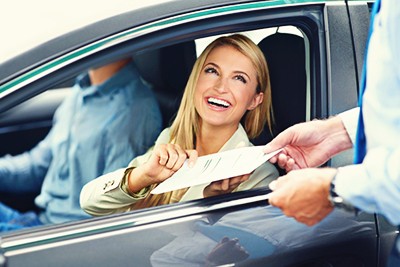
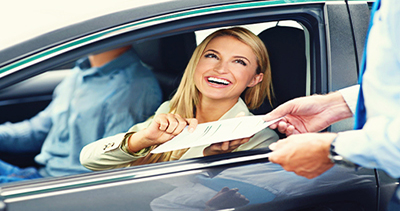
updates 08/28/14

diff --git a/css/carousel.css b/css/carousel.css
@@ -34,6 +34,17 @@
   width: auto;
 }
 
+.inner-shadow {
+   -moz-box-shadow:    inset 0 0 10px #000000;
+   -webkit-box-shadow: inset 0 0 10px #000000;
+   box-shadow:         inset 0 0 10px #000000;
+}
+.outer-shadow {
+	border: 1px solid #ccc;
+  -moz-box-shadow:    1px 1px 1px 1px #eee;
+  -webkit-box-shadow: 1px 1px 1px 1px #eee;
+  box-shadow:         1px 1px 1px 1px #eee;
+}
 
 /* CUSTOMIZE THE CAROUSEL
 -------------------------------------------------- */
@@ -84,7 +95,7 @@
 ------------------------- */
 
 .featurette-divider {
-  margin: 80px 0; /* Space out the Bootstrap <hr> more */
+  margin: 50px 0; /* Space out the Bootstrap <hr> more */
 }
 
 /* Thin out the marketing headings */

diff --git a/css/style.css b/css/style.css
@@ -1,6 +1,9 @@
 .gold{color: #FFB01F;}
 .blue{color: #428bca;}
 
+
+
+
 /*
 ================================================================================
 |                                     TAGS                                     |

diff --git a/application/views/pages/home.php b/application/views/pages/home.php
@@ -85,7 +85,7 @@
           <p class="lead">Donec ullamcorper nulla non metus auctor fringilla. Vestibulum id ligula porta felis euismod semper. Praesent commodo cursus magna, vel scelerisque nisl consectetur. Fusce dapibus, tellus ac cursus commodo.</p>
         </div>
         <div class="col-md-5">
-          <img class="featurette-image img-responsive" src="<?=base_url();?>images/slide-show/10.jpg" alt="Generic placeholder image">
+          	<img class="featurette-image img-responsive outer-shadow" src="<?=base_url();?>images/slide-show/10.jpg" alt="Generic placeholder image">
         </div>
       </div>
 
@@ -93,7 +93,7 @@
 
       <div class="row featurette">
         <div class="col-md-5">
-          <img class="featurette-image img-responsive" src="<?=base_url();?>images/slide-show/2.jpg" alt="Generic placeholder image">
+          <img class="featurette-image img-responsive outer-shadow" src="<?=base_url();?>images/slide-show/2.jpg" alt="Generic placeholder image">
         </div>
         <div class="col-md-7"><!-- Add class="featurette-heading" to h2 for bigger text-->
           <h2 >Oh yeah, it's that good. <span class="text-muted">See for yourself.</span></h2>
@@ -109,7 +109,7 @@
           <p class="lead">Donec ullamcorper nulla non metus auctor fringilla. Vestibulum id ligula porta felis euismod semper. Praesent commodo cursus magna, vel scelerisque nisl consectetur. Fusce dapibus, tellus ac cursus commodo.</p>
         </div>
         <div class="col-md-5">
-          <img class="featurette-image img-responsive" src="<?=base_url();?>images/slide-show/11.jpg" alt="Generic placeholder image">
+          <img class="featurette-image img-responsive outer-shadow" src="<?=base_url();?>images/slide-show/11.jpg" alt="Generic placeholder image">
         </div>
       </div>
 
